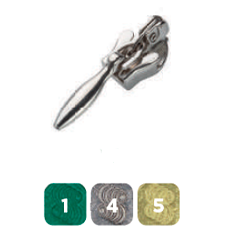
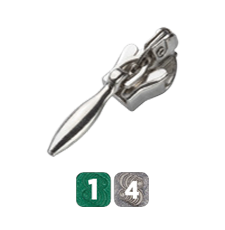
fotos

Changed region(s): [[0.1867, 0.0609, 0.8089, 0.7], [0.1867, 0.7304, 0.8089, 1.0]]

diff --git a/sintetico/cursorNF.html b/sintetico/cursorNF.html
@@ -126,7 +126,7 @@
             <div class="col-md-6 col-lg-4">
                 <div class="d-flex justify-content-center">
                     <div class="card" style="width: 230px; box-shadow: 1px 1px 3px;">
-                        <a href="acabamentoNF.html"><img class="img3" src="../cursorSintetico/40.PNG"
+                        <a href="acabamentoNF.html"><img class="img3" src="../cursorSintetico/40F.png"
                                 alt="Cursor 4" id="4" onclick="clicar('4')"></a>
                         <div class="card-body">
                             <p class="card-text">4</p>

diff --git a/plastico/cursorGP.html b/plastico/cursorGP.html
@@ -112,7 +112,7 @@
       <div class="col-md-12 col-lg-12">
         <div class="d-flex justify-content-center">
           <div class="card" style="width: 230px; box-shadow: 1px 1px 3px;" >
-            <a href="acabamentoG.html"><img class="img3" src="../Acabamento_plastico/43.png" alt="Puxador 31" id="43" onclick="clicar('43')"></a>
+            <a href="acabamentoG.html"><img class="img3" src="../Acabamento_plastico/43PG.png" alt="Puxador 31" id="43" onclick="clicar('43')"></a>
             <div class="card-body">
               <p class="card-text">43</p>
             </div>
